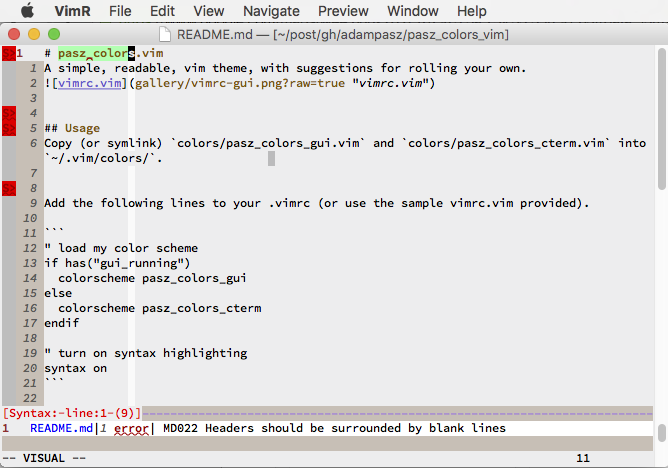
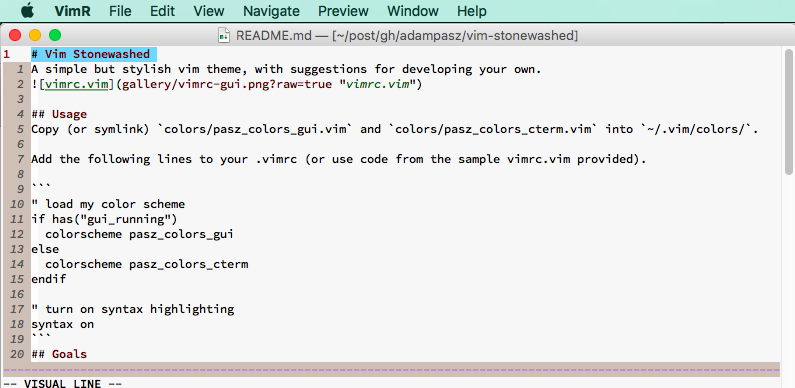
updated readme and screenshots

Changed region(s): [[0.0, 0.0, 1.0, 1.0], [0.988, 0.4021, 1.0, 0.4639]]

diff --git a/README.md b/README.md
@@ -1,13 +1,11 @@
 # Vim Stonewashed
-A simple, readable, vim theme, with suggestions for rolling your own.
+A simple but stylish vim theme, with suggestions for developing your own.
 ![vimrc.vim](gallery/vimrc-gui.png?raw=true "vimrc.vim")
-
 
 ## Usage
 Copy (or symlink) `colors/pasz_colors_gui.vim` and `colors/pasz_colors_cterm.vim` into `~/.vim/colors/`.
 
-
-Add the following lines to your .vimrc (or use the sample vimrc.vim provided).
+Add the following lines to your .vimrc (or use code from the sample vimrc.vim provided).
 
 ```
 " load my color scheme
@@ -20,17 +18,16 @@ endif
 " turn on syntax highlighting
 syntax on
 ```
-
 ## Goals
 
 ### A "Washed-Out" Style
-I prefer light themes (unless I'm on the beach), but most of the themes I tried felt too garrish and bright.  I wanted something more muted. For the most part I avoid primary colors.
+I prefer light themes, but most of the ones I tried felt too garrish and bright.  I wanted something more muted. I avoid primary colors, except when trying to call attention to some text (Errors, TODOs, etc.).
 
 ### Easy to Modify
-Many of the themes I evaluated had 100s of lines, and included language-specific syntax. pasz_colors is intended more as a nice starting point on top of which you can easily add your own customization. That said, I'm still trying to make it look nice out-of-the-box in most standard languages. 
+Many of the themes I evaluated had 100's of lines, and included language-specific syntax. The colorscheme can be used starting point for your own customizations. That said, I've tried to make it look nice out-of-the-box in most standard languages.
 
 ### Support gui and terminal Modes
-I work in both gui (i.e. MacVim) and terminal. At first I considered using a plugin like CSApprox to support both modes.  But, at the end, I decided I needed more direct control over the colors because there were subtle differences between the modes that were difficult to pin down.
+The colorscheme works work in both gui (i.e. MacVim) and terminal Vim. At first I considered using a plugin like CSApprox to support both modes.  But, at the end, I decided I needed more direct control over the colors because there were subtle differences between the modes that were difficult to pin down.
 
 ### Learn More About Vim
 Investing hours to derive the perfect color scheme is a bit of a fools errand.  The ultimate goal of this project was to understand Vim a little better. I have tried to organize the code in such a way that it is easy for others to jump in and learn by playing with it.
